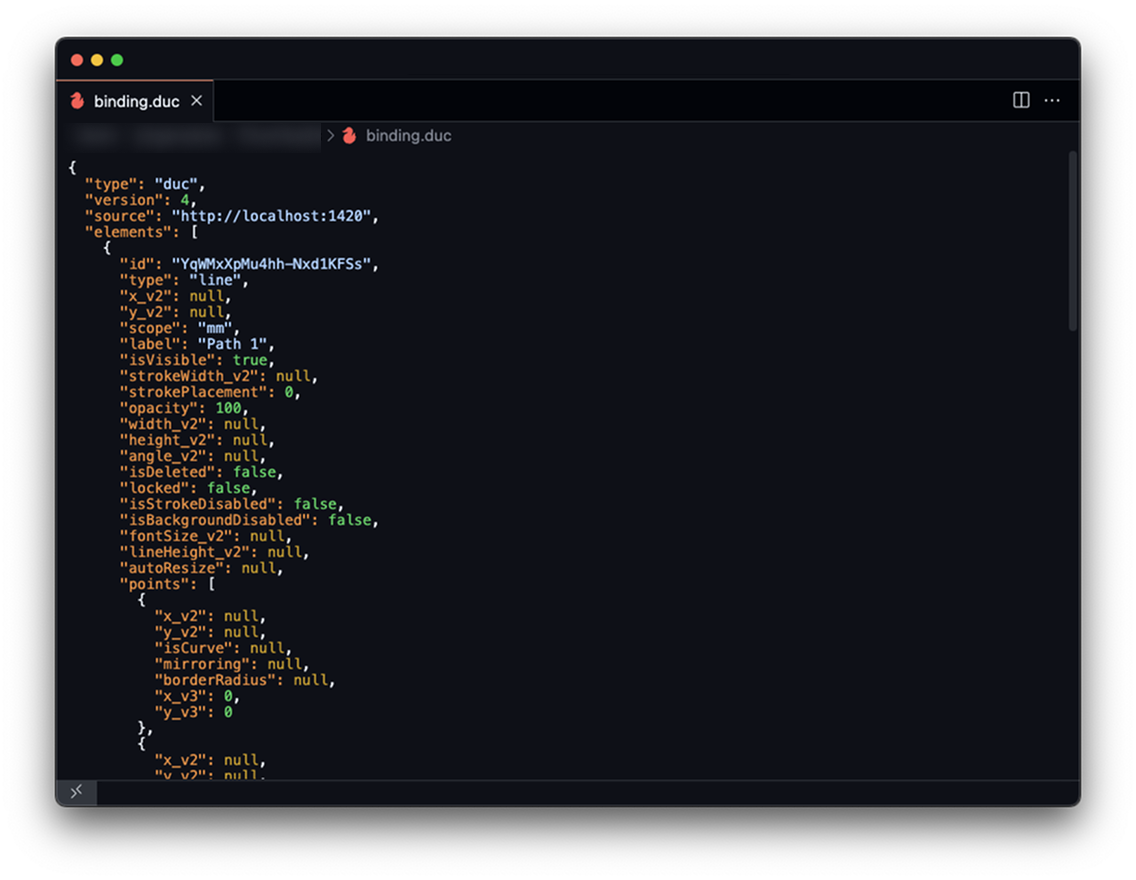
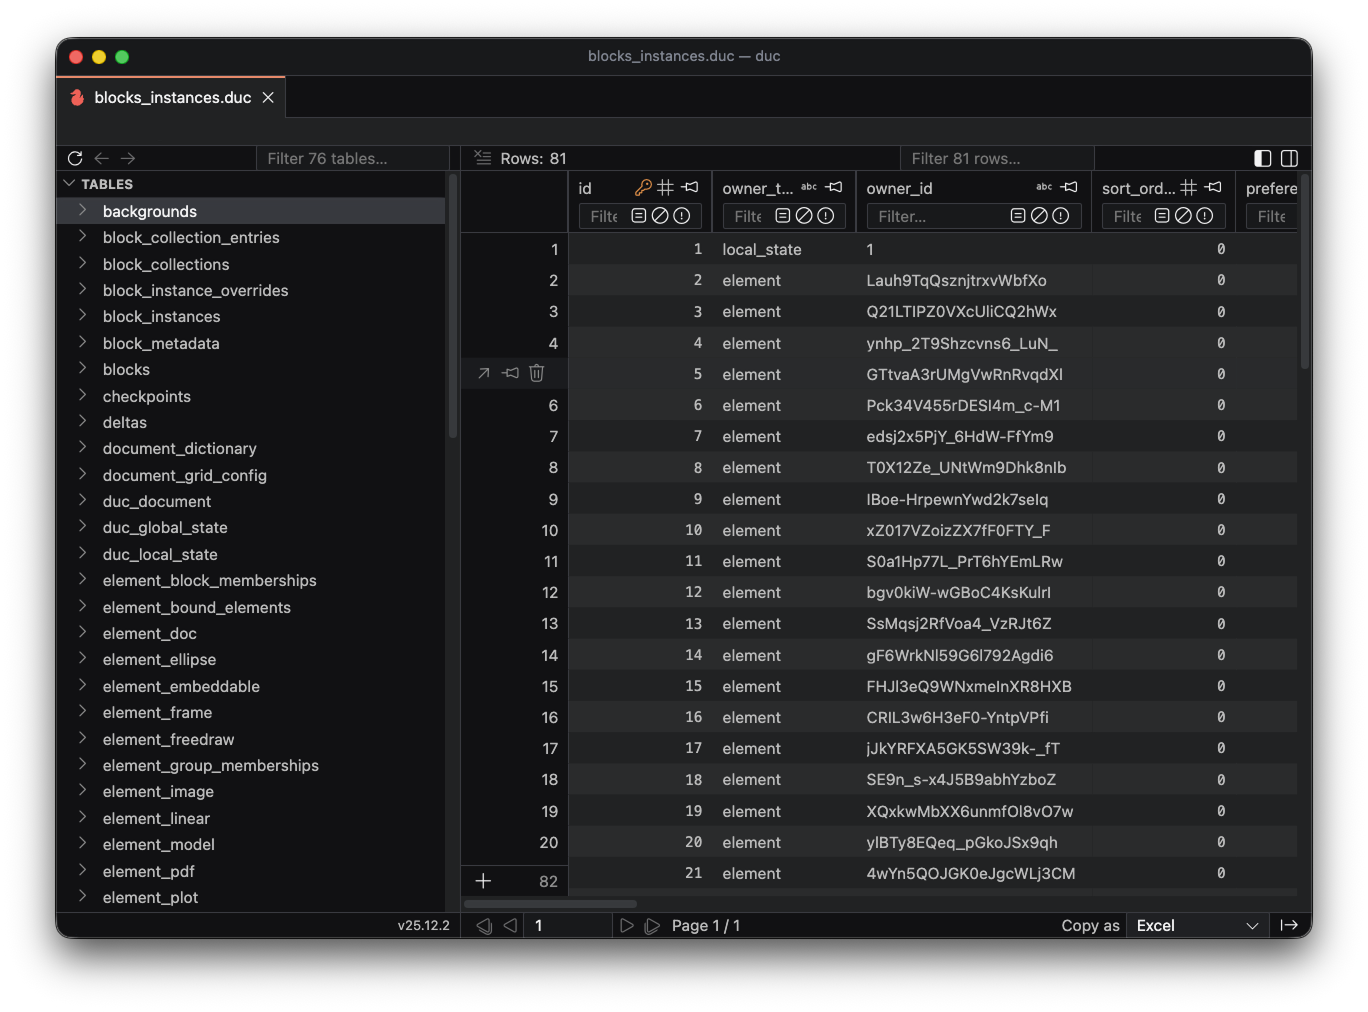
docs: update contribution guidelines for commit messages

diff --git a/README.md b/README.md
@@ -20,19 +20,6 @@ This extension depends on the SQLite Viewer extension and declares it as an exte
 2. Open a .duc file in VS Code
 3. The file will automatically open with SQLite Viewer
 
-Alternatively, you can:
-
-1. Right-click on a `.duc` file in the Explorer
-2. Choose **Reopen Editor With...**
-3. Select **SQLite Viewer**
-
-## How it works
-
-The extension:
-
-1. Declares SQLite Viewer as an extension dependency
-2. Sets `workbench.editorAssociations` default so `*.duc` opens as `sqlite-viewer.view`
-3. Delegates all data inspection to SQLite Viewer
 
 ## Troubleshooting
 
@@ -44,26 +31,3 @@ The extension:
 
 2. **SQLite Viewer reports invalid database**
    - Confirm the `.duc` file is a valid SQLite database file
-
-## Development
-
-### Extension Development
-
-- Open this project in VS Code
-- `npm install`
-- `npm run watch` or `npm run compile`
-- Press `F5` to start debugging
-
-### CI/CD
-
-This extension uses GitHub Actions for continuous integration and delivery:
-
-- Automated versioning using semantic-release
-- Automated packaging and publishing to VS Code Marketplace
-- Automated GitHub releases with change notes
-
-To contribute, please follow the [Conventional Commits](https://www.conventionalcommits.org/) specification for your commit messages to ensure proper versioning.
-
-## License
-
-MIT

diff --git a/CONTRIBUTING.md b/CONTRIBUTING.md
@@ -13,6 +13,10 @@ Thank you for your interest in contributing to Duc Preview! This document provid
 
 This project uses ESLint for code style enforcement. Run `npm run lint` to check your code.
 
+## Commit Messages
+
+To contribute, please follow the [Conventional Commits](https://www.conventionalcommits.org/) specification for your commit messages to ensure proper versioning.
+
 ## Pull Requests
 
 1. Create a branch for your changes
